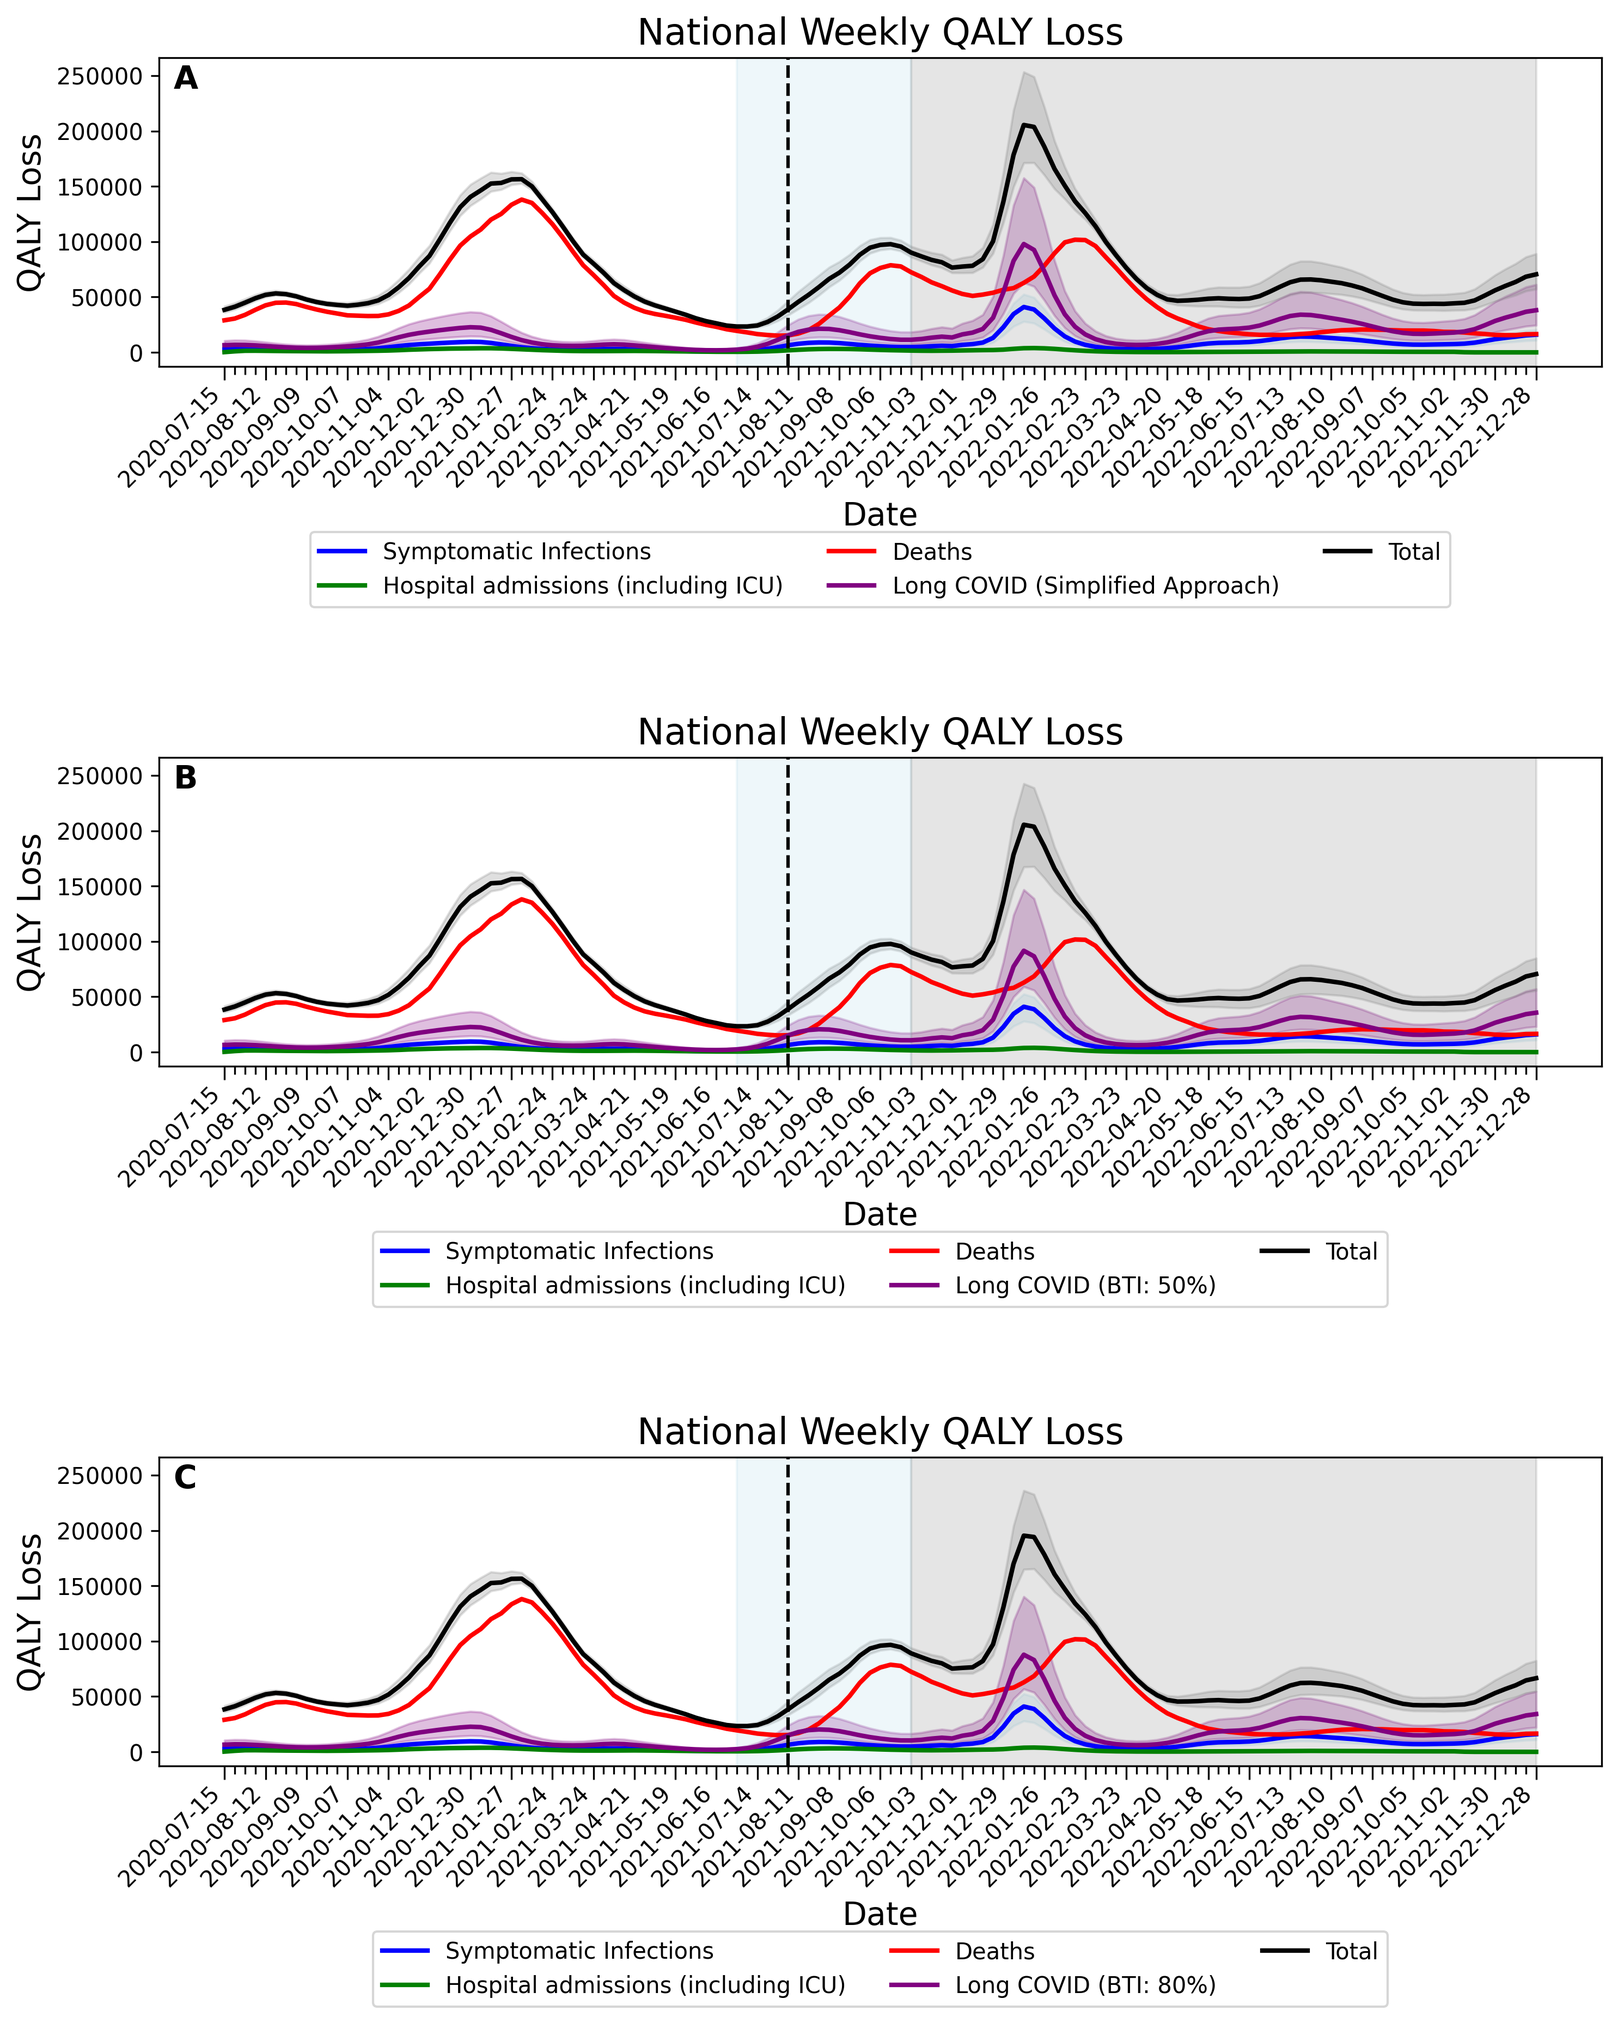
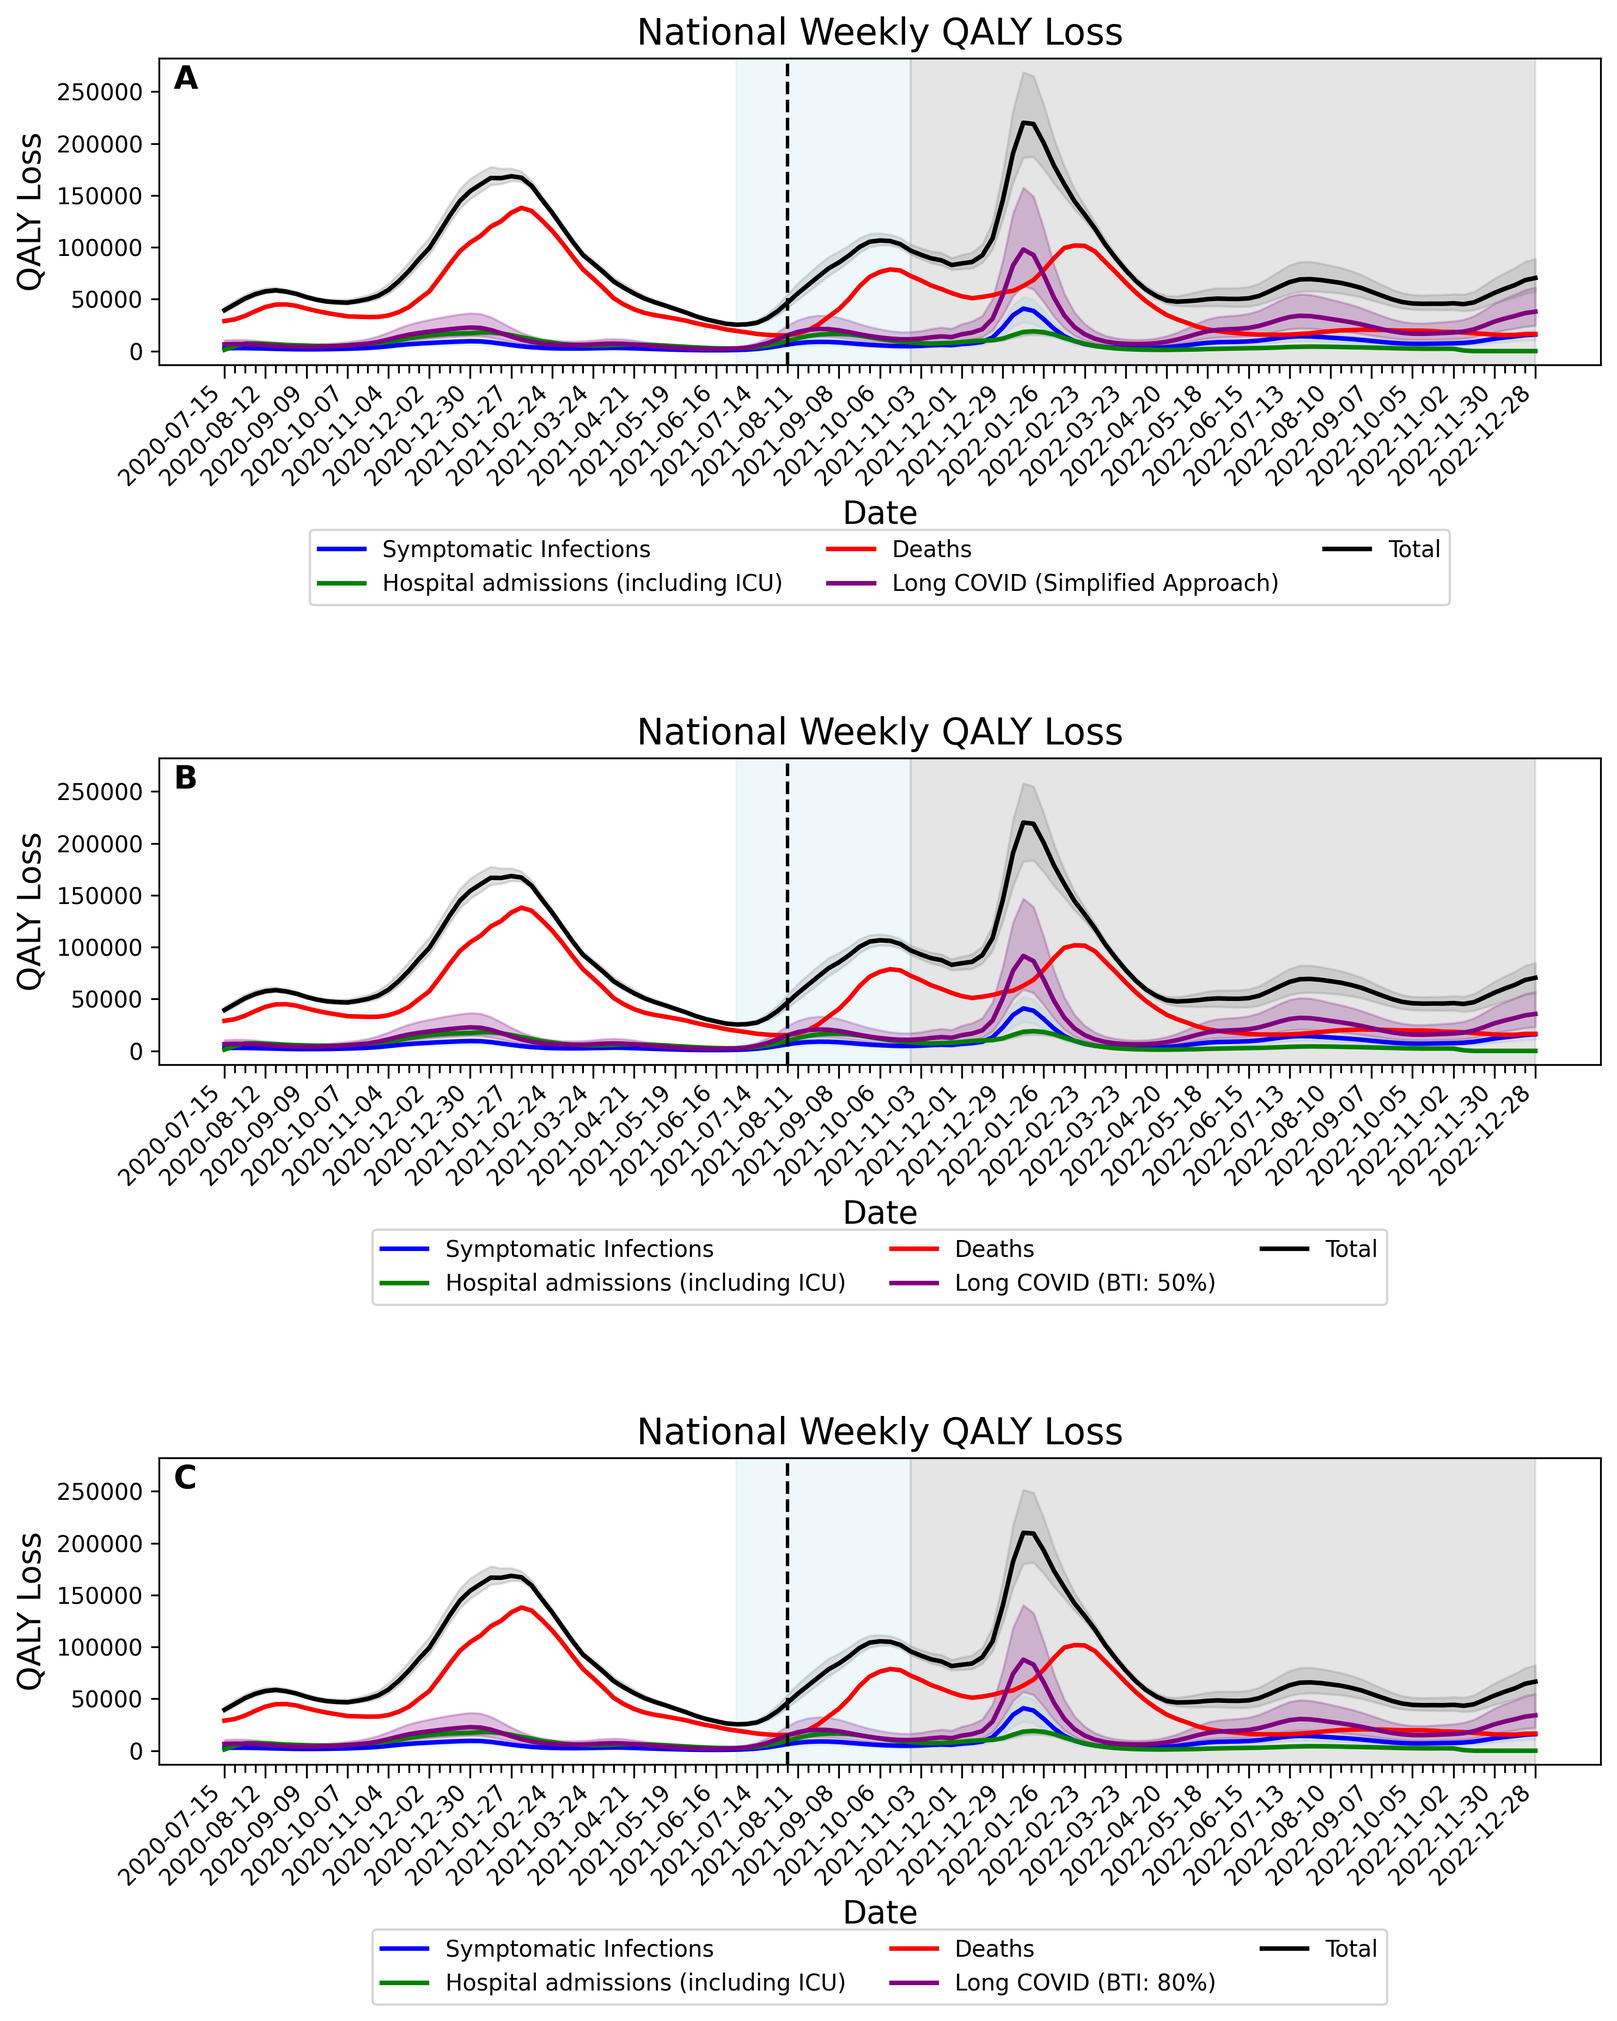
upload

diff --git a/classes/model.py b/classes/model.py
@@ -1857,53 +1857,6 @@ class ProbabilisticAllStates:
         print('  95% Uncertainty Interval:',
               format_interval((ui_total_2[0] * 52 / 129, ui_total_2[1] * 52 / 129), deci=0, format=','))
 
-    def print_qaly_loss_per_outcome(self):
-
-
-        (mean, ci, ui, mean_cases, ci_c, ui_c, mean_infections, ci_inf, ui_inf,mean_hosps_non_icu, ci_hosps_non_icu, ui_hosps_non_icu,
-         mean_hosps_icu, ci_hosps_icu, ui_hosps_icu, mean_deaths, ci_d, ui_d,
-         mean_icu, ci_icu, ui_icu, mean_total_hosps, ci_total_hosps, ui_total_hosps,
-         mean_lc_1, ci_lc_1, ui_lc_1,
-         mean_lc_2, ci_lc_2, ui_lc_2,
-         mean_deaths_sa_1a, ci_deaths_sa_1a, ui_deaths_sa_1a,
-         mean_deaths_sa_1b, ci_deaths_sa_1b, ui_deaths_sa_1b,
-         mean_deaths_sa_1c, ci_deaths_sa_1c, ui_deaths_sa_1c,
-         mean_deaths_sa_2a, ci_deaths_sa_2a, ui_deaths_sa_2a,
-         mean_deaths_sa_2b, ci_deaths_sa_2b, ui_deaths_sa_2b,
-         mean_deaths_sa_2c, ci_deaths_sa_2c, ui_deaths_sa_2c,
-         mean_deaths_sa_3a, ci_deaths_sa_3a, ui_deaths_sa_3a,
-         mean_deaths_sa_3b, ci_deaths_sa_3b, ui_deaths_sa_3b,
-         mean_deaths_sa_3c, ci_deaths_sa_3c, ui_deaths_sa_3c,
-         mean_total_1, ci_total_1, ui_total_1,
-         mean_total_2, ci_total_2, ui_total_2,
-         mean_total_sa_1a, ci_total_sa_1a, ui_total_sa_1a,
-         mean_total_sa_1b, ci_total_sa_1b, ui_total_sa_1b,
-         mean_total_sa_1c, ci_total_sa_1c, ui_total_sa_1c,
-         mean_total_sa_2a, ci_total_sa_2a, ui_total_sa_2a,
-         mean_total_sa_2b, ci_total_sa_2b, ui_total_sa_2b,
-         mean_total_sa_2c, ci_total_sa_2c, ui_total_sa_2c,
-         mean_total_sa_3a, ci_total_sa_3a, ui_total_sa_3a,
-         mean_total_sa_3b, ci_total_sa_3b, ui_total_sa_3b,
-         mean_total_sa_3c, ci_total_sa_3c, ui_total_sa_3c) = self.summaryOutcomes.get_mean_ci_ui_overall_qaly_loss()
-
-
-        print('Cases :')
-        print('  Mean QALY Loss per case: ', (mean_cases/self.allStates.pandemicOutcomes.cases.totalObs))
-        print('Symptomatic Infections :')
-        print('  Mean QALY Loss per symptomatic infections', (mean_infections / (self.allStates.pandemicOutcomes.infections.totalObs)))
-        print('  95% Confidence Interval:', (ci_inf/ self.allStates.pandemicOutcomes.infections.totalObs))
-        print('  95% Uncertainty Interval:', format_interval(ui_inf/ self.allStates.pandemicOutcomes.infections.totalObs, deci=0, format=','))
-
-        print(' Hosps:')
-        print('  Mean QALY loss per hospital admission:', (mean_total_hosps/self.allStates.pandemicOutcomes.hosps.totalObs))
-        print('  95% Confidence Interval:', (ci_total_hosps/self.allStates.pandemicOutcomes.hosps.totalObs))
-        print('  95% Uncertainty Interval:', (ui_total_hosps/self.allStates.pandemicOutcomes.hosps.totalObs))
-
-        print('Deaths:')
-        print('  Mean QALY loss per Deaths:', (mean_deaths/self.allStates.pandemicOutcomes.deaths.totalObs))
-        print('  95% Confidence Interval:', (ci_d/self.allStates.pandemicOutcomes.cases.totalObs))
-        print('  95% Uncertainty Interval:', (ui_d/self.allStates.pandemicOutcomes.cases.totalObs))
-
 
     def get_mean_ui_weekly_qaly_loss(self, alpha=0.05):
         """
@@ -3204,9 +3157,9 @@ class ProbabilisticAllStates:
                 county_outcomes_data["HSA Total Hospitalizations per 100K"].append(None)
                 county_outcomes_data["HSA Total Deaths per 100K"].append(None)
 
-        # Create a DataFrame from the county data
+
         county_outcomes_df = pd.DataFrame(county_outcomes_data)
-        county_outcomes_df.to_csv(ROOT_DIR + '/csv_files/county_outcomes_by_hsa.csv', index=False)
+
 
 
         # Merge the county QALY loss data with the geometry data
@@ -3562,6 +3515,69 @@ class ProbabilisticAllStates:
         plt.xticks(rotation=45)
         plt.show()
 
+    def Fig_S4_plot_vax_sigmoid(self):
+        L_UB = 0.8  # Upper bound cap
+        L_LB = 0.5  # Lower bound cap
+        k = 0.3
 
+        # Define the target date for the vertical line
+        vline_date = "2021-08-04"
 
+        # Convert self.allStates.dates to string if they aren't already, and ensure it's in the correct format
+        all_dates = np.array(self.allStates.dates, dtype=str)  # Ensure dates are in string format
 
+        # Find the index of the date
+        vline_index = np.where(all_dates == vline_date)[0][0]
+
+        # Generate weeks (x-values) corresponding to the number of dates
+        weeks = np.arange(len(self.allStates.dates))
+
+        # Compute sigmoid values for both lower and upper bounds
+        sigmoid_values_LB = L_LB / (1 + np.exp(-k * (weeks - vline_index)))
+        sigmoid_values_UB = L_UB / (1 + np.exp(-k * (weeks - vline_index)))
+
+        # Create figure and assign it to `fig`
+        fig = plt.figure(figsize=(8, 5))
+
+        # Plot the sigmoid curves
+        plt.plot(self.allStates.dates, sigmoid_values_LB, label="50% BTI", color='b')
+        plt.plot(self.allStates.dates, sigmoid_values_UB, label="80% BTI", color='r')
+
+        # Plot the vertical line at vline_index
+        plt.axvline(x=vline_index, color='black', linestyle='--')
+
+        # Set x-axis ticks
+        date_range = self.allStates.dates
+        tick_positions = range(0, len(date_range))
+        plt.xticks(tick_positions, [date_range[i] if i % 4 == 0 else '' for i in tick_positions], fontsize=10,
+                   rotation=45)
+
+        # Customize tick marks
+        for i, tick in enumerate(plt.gca().xaxis.get_major_ticks()):
+            if i % 4 == 0:  # Every 4th tick mark
+                tick.label1.set_fontsize(10)
+                tick.label1.set_rotation(45)
+                tick.label1.set_horizontalalignment('right')
+                tick.label1.set_weight('normal')
+                tick.tick1line.set_markersize(6)
+                tick.tick1line.set_linewidth(2)
+                tick.tick2line.set_markersize(6)
+                tick.tick2line.set_linewidth(2)
+            else:
+                tick.label1.set_fontsize(10)
+                tick.label1.set_weight('normal')
+
+        # Set title and labels
+        plt.title('Proportion of Breakthrough Infections (BTI) among Total Infections')
+        plt.xlabel('Dates')
+        plt.ylabel('BTI %')
+
+        # Add legend
+        plt.legend()
+
+        # Add grid and tight layout to avoid label clipping
+        plt.grid(False)
+        plt.tight_layout()
+
+        # Save the plot to file
+        plt.savefig(ROOT_DIR + '/figs/Fig_S4_vax_sigmoid.png', format='png')

diff --git a/data_preprocessing/support_functions.py b/data_preprocessing/support_functions.py
@@ -73,8 +73,9 @@ def generate_county_data_csv(data_type='cases'):
             "'deaths per 100,000', 'hospitalizations per 100,000', 'icu occupancy per 100,000'.")
 
     # Read the data
-    rows = read_csv_rows(ROOT_DIR+ '/Data/county_time_data_all_dates.csv',
+    rows = read_csv_rows(ROOT_DIR + '/Data/county_time_data_all_dates.csv',
                          if_ignore_first_row=True)
+
 
     # Creating a dictionary to store the time series of data for each county
     county_data_time_series = defaultdict(list)
@@ -136,8 +137,6 @@ def generate_county_data_csv(data_type='cases'):
     # Create a list of unique dates across all counties within the specified range
     unique_dates = sorted(set(date for time_series in county_data_time_series.values() for date, _ in time_series))
 
-    # Generate the output file name based on data_type
-    output_file = ROOT_DIR +f'/csv_files/county_{data_type.replace(" ", "_")}.csv'
 
     # Create the header row with dates
     header_row = ['County', 'State', 'FIPS', 'Population'] + unique_dates
@@ -181,7 +180,7 @@ def generate_county_data_csv(data_type='cases'):
                 county_data_rows[i][2] = new_fips  # Update the FIPS value
 
     # Create the output file name
-    output_file = f'{ROOT_DIR}/csv_files/county_{data_type.replace(" ", "_")}.csv'
+    output_file = ROOT_DIR +f'/csv_files/county_{data_type.replace(" ", "_")}.csv'
 
     write_csv(rows=[header_row] + county_data_rows, file_name=output_file)
 
@@ -309,14 +308,13 @@ def generate_hsa_mapped_county_hosp_data():
     adjusted_data = adjusted_data.where(pd.notna(adjusted_data), 'nan')
 
     # Save the adjusted data to a new CSV
-    adjusted_data.to_csv(ROOT_DIR + '/csv_files/county_hospitalizations.csv', index=False) # A REVOIR
+    adjusted_data.to_csv(ROOT_DIR + '/csv_files/county_hospitalizations.csv', index=False)
 
     print("Hospitalization data has been updated based on HSA")
 
 def generate_hsa_mapped_county_icu_data():
     # Load county ICU data
     county_icu_data = pd.read_csv(ROOT_DIR + '/csv_files/county_icu.csv', skiprows=0)
-
 
     # Load HSA data
     hsa_data = pd.read_csv(ROOT_DIR + '/Data/county_names_HSA_number.csv', skiprows=0)
@@ -459,6 +457,7 @@ def generate_county_info_csv():
     rows = read_csv_rows(ROOT_DIR + '/Data/county_time_data_all_dates.csv',
                          if_ignore_first_row=True)
 
+
     # Initialize a list to store county information
     county_info_list = []
 
@@ -583,6 +582,8 @@ def generate_state_cases_infections_factor():
     state_divided_county_infections = pd.read_csv(ROOT_DIR + '/csv_files/state_divided_county_infections.csv')
     county_cases = pd.read_csv(ROOT_DIR + '/csv_files/county_cases.csv')
 
+
+
     infections_grouped = state_divided_county_infections.drop(columns=['County', 'FIPS', 'Population'])
     infections_state = infections_grouped.groupby('State').sum()
     cases_grouped = county_cases.drop(columns=['County', 'FIPS', 'Population'])
@@ -601,7 +602,6 @@ def generate_infections_from_cases():
     state_factors = pd.read_csv(ROOT_DIR + '/csv_files/state_cases_infections_factor',index_col='State')
 
     county_cases = pd.read_csv(ROOT_DIR + '/csv_files/county_cases.csv')
-
 
     case_columns = county_cases.columns[4:]  # Assuming first 4 columns are 'County', 'State', 'FIPS', 'Population'
     county_infections_from_cases = county_cases.copy()
@@ -627,9 +627,10 @@ def generate_symptomatic_infections_vax():
     L_UB = 0.8  # Upper bound cap
     L_LB = 0.5  # Lower bound cap
     k = 0.3
-    x0 = 0.45 * len(dates)
+    # Find the index of the date
+    all_dates = np.array(dates, dtype=str)
+    x0 = np.where(all_dates == "2021-08-04")[0][0]
 
-    # Generate weeks (x-values) corresponding to the number of dates
     weeks = np.arange(len(dates))
 
     # Compute sigmoid values for both lower and upper bounds

diff --git a/classes/parameters.py b/classes/parameters.py
@@ -32,7 +32,7 @@ class ParameterGenerator:
         # parameters to calculate the QALY loss due to a case
         self.parameters['cases_prob_symp'] = Beta(mean=0.692, st_dev=0.115)
         self.parameters['case_dur_symp'] = Gamma(mean=7/365.25, st_dev=0.5/365.25)
-        self.parameters['case_weight_symp'] = Beta(mean=0.13, st_dev=0.02) #updated value
+        self.parameters['case_weight_symp'] = Beta(mean=0.13, st_dev=0.02)
 
         self.parameters['prob_surv'] =ConstantArray(values=0.983)
 
@@ -45,8 +45,7 @@ class ParameterGenerator:
         self.parameters['hosps_prob_surv'] = Beta(mean=0.82, st_dev=0.02)
 
         self.parameters['icu_prob'] = ConstantArray(0.174)
-        #self.parameters['icu_weight'] = Beta(mean=0.60, st_dev=0.1)
-        self.parameters['icu_weight'] = Beta(mean=0.70, st_dev= 0.10) #updated value
+        self.parameters['icu_weight'] = Beta(mean=0.70, st_dev= 0.10)
         self.parameters['occupancy_dur'] = ConstantArray(values=(7 / 365))
 
         # parameters to calculate the QALY loss due to a death
@@ -68,14 +67,12 @@ class ParameterGenerator:
 
         # LONG COVID 1: parameters to calculate the QALY loss due to long COVID
         self.parameters['long_covid_dur'] = Beta(mean=4/12, st_dev=(1/48))
-        #self.parameters['case_prob_symp'] = Beta(mean=0.692, st_dev=0.115)
         self.parameters['long_covid_prob'] = Beta(mean=0.062, st_dev=0.0273)
         self.parameters['long_covid_weight'] = Beta(mean=0.29, st_dev =0.0275)
-        self.parameters['long_covid_prob_v_red'] = Beta(mean=0.872, st_dev=0.0306)
+        #self.parameters['long_covid_prob_v_red'] = Beta(mean=0.872, st_dev=0.0306)
 
         # LONG COVID  2: parameters to calculate the QALY loss due to long COVID
         self.parameters['cases_prob_hosp'] = ConstantArray(values=0.058)
-        # self.parameters['case_prob_symp'] = Beta(mean=0.692, st_dev=0.115)
         self.parameters['long_covid_nonhosp_prob_surv'] = ConstantArray(values=1)
         self.parameters['long_covid_nonhosp_prob_symp'] = Beta(mean=0.057, st_dev=0.022)
         self.parameters['long_covid_nonhosp_dur'] = Beta(mean=4/12, st_dev=(1/48))
@@ -165,7 +162,7 @@ class ParameterGenerator:
                                   * self.parameters['prob_surv'].value
                                   * self.parameters['long_covid_dur'].value
                                   * self.parameters['long_covid_weight'].value
-                                 * self.parameters['long_covid_prob_v_red'].value)
+                                 * self.parameters['reduction_long_prob'].value)
 
         param.qWeightLongCOVID_1_uv = (self.parameters['cases_prob_symp'].value
                                     * self.parameters['long_covid_prob'].value

diff --git a/tests/test_model.py b/tests/test_model.py
@@ -4,6 +4,8 @@ from classes.model import ProbabilisticAllStates
 probabilisticModel = ProbabilisticAllStates()
 probabilisticModel.simulate(n=10)
 
+
+#probabilisticModel.print_overall_outcomes_and_qaly_loss()
 probabilisticModel.Fig_1_plot_weekly_qaly_loss_by_outcome()
 probabilisticModel.Fig_2_plot_map_of_avg_qaly_loss_by_county_4()
 probabilisticModel.Fig_3_plot_qaly_loss_by_state_and_by_outcome()
@@ -11,8 +13,10 @@ probabilisticModel.Fig_3_plot_qaly_loss_by_state_and_by_outcome()
 probabilisticModel.Fig_S1_plot_weekly_outcomes()
 probabilisticModel.Fig_S2_plot_map_of_county_outcomes()
 probabilisticModel.Fig_S3_plot_map_of_hsa_outcomes_by_county_per_100K()
+probabilisticModel.Fig_S4_plot_vax_sigmoid()
 probabilisticModel.Fig_S5_plot_weekly_deaths_sensitivity_analysis()
 probabilisticModel.Fig_S6_plot_weekly_qaly_loss_by_outcome_vax()
+
 
 
 

diff --git a/tests/generate_data.py b/tests/generate_data.py
@@ -5,6 +5,8 @@ from data_preprocessing.support_functions import (generate_county_data_csv,gener
                                                   generate_state_cases_infections_factor,generate_infections_from_cases,
                                                   generate_hosps_by_age_group,generate_symptomatic_infections_vax)
 
+
+'''
 # Preparing weekly county-level infections estimates
 generate_county_data_csv('cases')
 generate_county_info_csv()
@@ -20,6 +22,7 @@ generate_county_data_csv('icu')
 
 # Preparing weekly county-level vaccinated infections data
 generate_symptomatic_infections_vax()
+'''
 
 # Preparing weekly hsa-mapped hospitalization admission and icu occupancy data
 generate_hsa_mapped_county_hosp_data()
